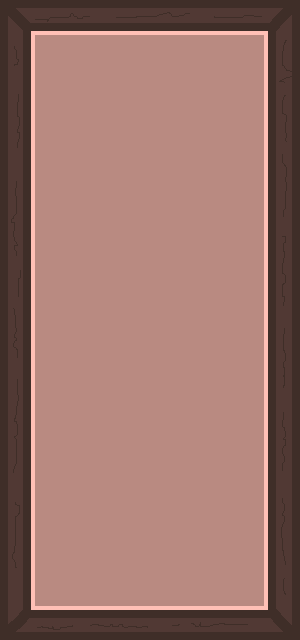
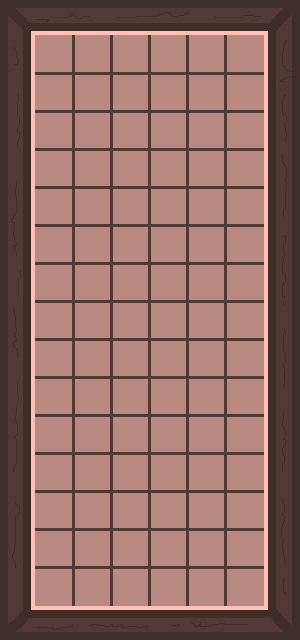
Modify_inventary

Changed region(s): [[0.12, 0.0625, 0.87, 0.9375]]

diff --git a/Совместный проект-игра/programm.py b/Совместный проект-игра/programm.py
@@ -957,6 +957,7 @@ class Hero:
                         all_grass.draw(screen)
                         all_brown_grass.draw(screen)
                         all_brown_stones.draw(screen)
+                        inventory_group.draw(screen)
 
                         all_carrot.draw(screen)
                         all_honey.draw(screen)
@@ -1003,6 +1004,7 @@ class Hero:
                         all_grass.draw(screen)
                         all_brown_grass.draw(screen)
                         all_brown_stones.draw(screen)
+                        inventory_group.draw(screen)
 
                         all_carrot.draw(screen)
                         all_honey.draw(screen)
@@ -1049,6 +1051,7 @@ class Hero:
                         all_grass.draw(screen)
                         all_brown_grass.draw(screen)
                         all_brown_stones.draw(screen)
+                        inventory_group.draw(screen)
 
                         all_carrot.draw(screen)
                         all_honey.draw(screen)
@@ -1095,6 +1098,7 @@ class Hero:
                         all_grass.draw(screen)
                         all_brown_grass.draw(screen)
                         all_brown_stones.draw(screen)
+                        inventory_group.draw(screen)
 
                         all_carrot.draw(screen)
                         all_honey.draw(screen)
@@ -1247,6 +1251,7 @@ class NPS_1:
             all_honey.draw(screen)
             hero_sprite.draw(screen)
             npc_1_sprite.draw(screen)
+            inventory_group.draw(screen)
             print_text(text_coord, message_text)
             if pygame.mouse.get_focused():
                 pygame.mouse.set_visible(False)
@@ -1345,6 +1350,7 @@ class NPS_2:
             all_mushrooms.draw(screen)
             all_berries.draw(screen)
             hero_sprite.draw(screen)
+            inventory_group.draw(screen)
 
             npc_2_sprite.draw(screen)
             print_text(text_coord, message_text)
@@ -1407,6 +1413,38 @@ class Inventory:
         n = self.inventory.index(thing)
         del self.inventory[n]
 
+    def draw(self):
+        global inventory_group
+        for i in range(len(self.inventory)):
+            if i > 90:
+                break
+            if self.inventory[i] == 'stick':
+                image = pygame.sprite.Sprite
+                image.image = load_image('stick.png')
+                image.image.set_colorkey((255, 255, 255))
+                image.rect = image.image.get_rect()
+                image.rect.x = 915 + 39 * ((i - 1) % 6)
+                image.rect.y = 35 + 39 * ((i - 1) // 6)
+            elif self.inventory[i] == 'stone':
+                image = pygame.sprite.Sprite
+                image.image = load_image('stone.png')
+                image.rect = image.image.get_rect()
+                image.rect.x = 915 + 39 * ((i - 1) % 6)
+                image.rect.y = 35 + 39 * ((i - 1) // 6)
+            elif self.inventory[i] == 'carrot':
+                image = pygame.sprite.Sprite
+                image.image = load_image('carrot_food.png')
+                image.rect = image.image.get_rect()
+                image.rect.x = 915 + 39 * ((i - 1) % 6)
+                image.rect.y = 35 + 39 * ((i - 1) // 6)
+            elif self.inventory[i] == 'honey':
+                image = pygame.sprite.Sprite
+                image.image = load_image('honey_food.png')
+                image.image.set_colorkey((255, 255, 255))
+                image.rect = image.image.get_rect()
+                image.rect.x = 915 + 39 * ((i - 1) % 6)
+                image.rect.y = 35 + 39 * ((i - 1) // 6)
+
 
 # Класс инструментов
 class Weapon:
@@ -1450,6 +1488,13 @@ if __name__ == '__main__':
 
     # Заставка
     start_screen()
+
+    inventory_group = pygame.sprite.Group()
+
+    # Стартовые инструменты
+    inventory = Inventory()
+    arm = Weapon(2, 2)
+    inventory.add_thing(arm)
 
     # Регистрация
     registration_screen()
@@ -1885,6 +1930,7 @@ if __name__ == '__main__':
         all_grass.draw(screen)
         all_brown_grass.draw(screen)
         all_brown_stones.draw(screen)
+        inventory_group.draw(screen)
 
         all_carrot.draw(screen)
         all_honey.draw(screen)
